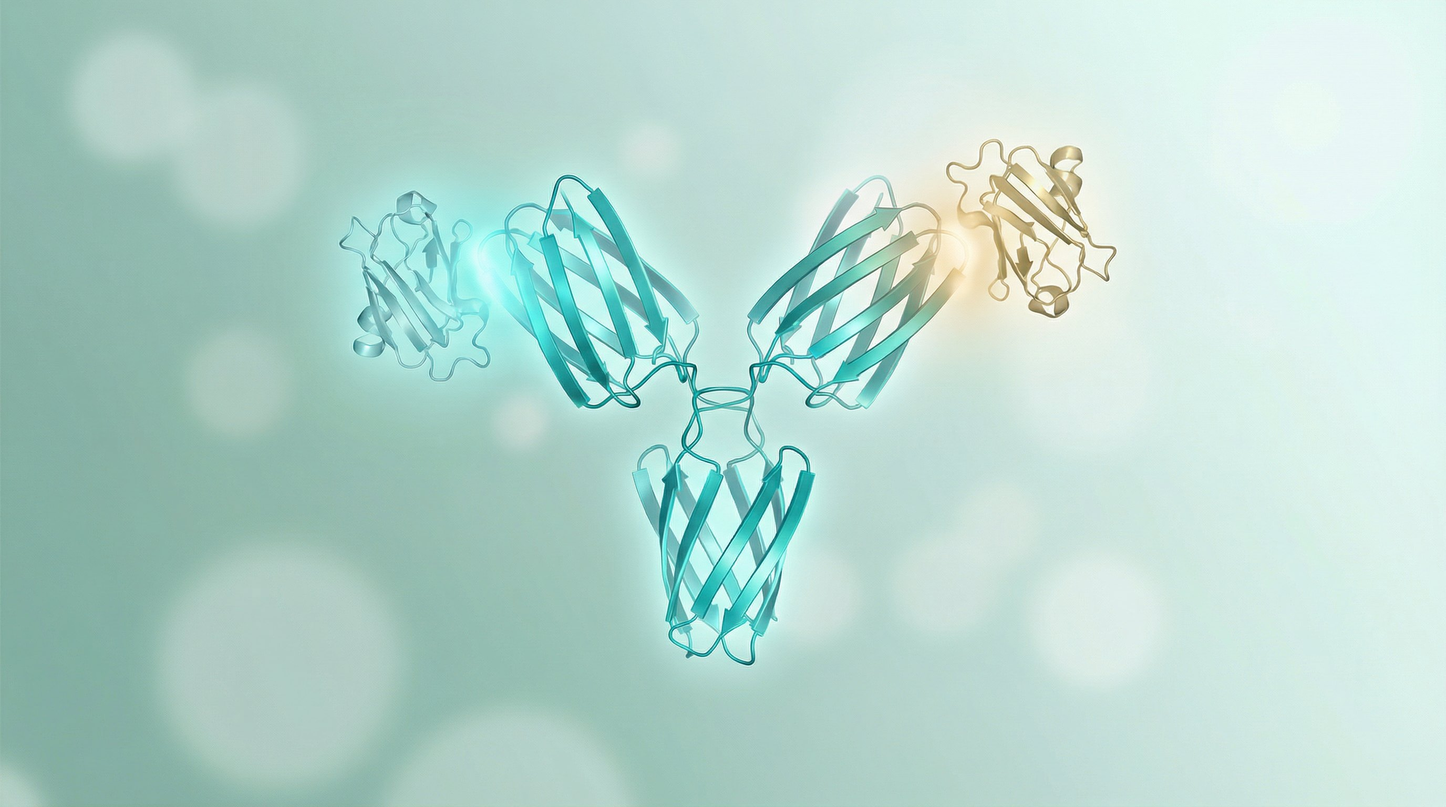
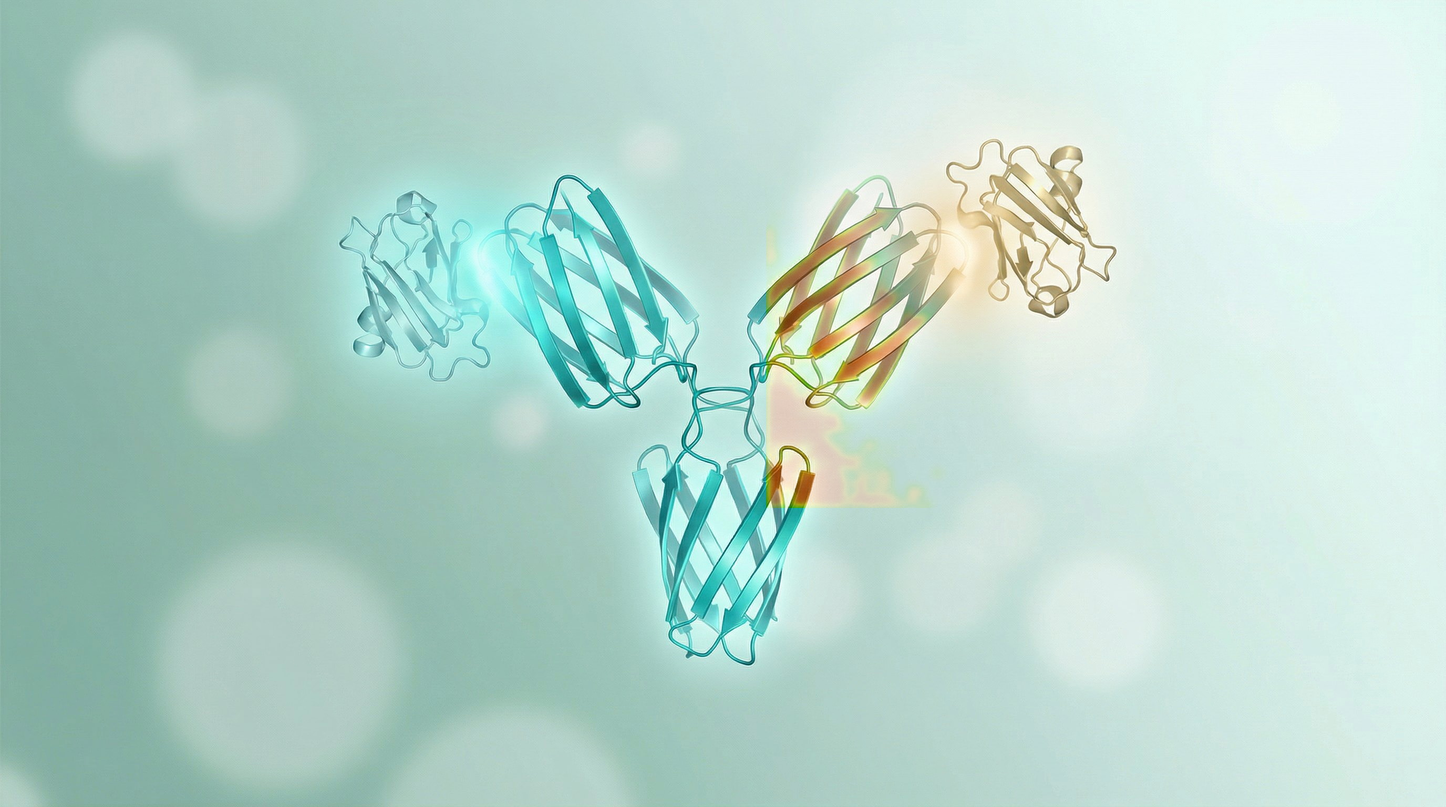
sync: update website content

Changed region(s): [[0.5312, 0.2188, 0.6562, 0.6562]]

diff --git a/index.html b/index.html
@@ -4,7 +4,7 @@
   <meta charset="UTF-8">
   <meta name="viewport" content="width=device-width, initial-scale=1.0">
   <title>InSynBio | AI-Powered Design for Therapeutics</title>
-    <meta name="deployment-id" content="20260301-20">
+    <meta name="deployment-id" content="20260301-21">
   <link rel="icon" type="image/svg+xml" href="favicon.svg">
   <link rel="preconnect" href="https://fonts.googleapis.com">
   <link rel="preconnect" href="https://fonts.gstatic.com" crossorigin>
@@ -155,6 +155,19 @@
     .case-card:hover { transform: translateY(-6px); box-shadow: 0 18px 40px rgba(0,0,0,0.08); border-color: rgba(13,148,136,0.18); }
     .case-media { width: 100%; aspect-ratio: 16 / 9; background: linear-gradient(135deg, rgba(13,148,136,0.08), rgba(45,212,191,0.06)); position: relative; }
     .case-media picture, .case-media img { width: 100%; height: 100%; display: block; object-fit: cover; }
+    /* Bispecific: keep original art style, only enhance dual-color separation */
+    .case-card--bispecific .case-media::after {
+      content: "";
+      position: absolute;
+      inset: 0;
+      pointer-events: none;
+      background:
+        radial-gradient(320px 220px at 36% 42%, rgba(45,212,191,0.22) 0%, rgba(45,212,191,0.00) 64%),
+        radial-gradient(320px 220px at 72% 42%, rgba(245,158,11,0.20) 0%, rgba(245,158,11,0.00) 64%),
+        linear-gradient(90deg, rgba(13,148,136,0.08) 0%, rgba(245,158,11,0.08) 100%);
+      mix-blend-mode: color;
+      opacity: 0.9;
+    }
     .case-body { padding: 22px 22px 18px; }
     .case-tag { display: inline-flex; align-items: center; gap: 8px; font-size: 11px; font-weight: 800; letter-spacing: 0.06em; text-transform: uppercase; color: var(--primary-dark); background: rgba(13,148,136,0.10); border: 1px solid rgba(13,148,136,0.18); padding: 6px 10px; border-radius: 999px; }
     .case-title { margin: 14px 0 10px; font-size: 18px; font-weight: 650; letter-spacing: -0.01em; color: #111827; }
@@ -512,10 +525,12 @@
           <div class="case-cta">Discuss your target →</div>
         </a>
 
-        <a class="case-card fade-up fade-up-d1" href="InSynBio_Bispecific_Antibody_Design_Page.html">
+        <a class="case-card case-card--bispecific fade-up fade-up-d1" href="InSynBio_Bispecific_Antibody_Design_Page.html">
           <div class="case-media">
             <picture>
-              <img src="images/case-bispecific.svg?v=20260301-20" alt="Bispecific antibody design placeholder">
+              <source srcset="images/case-bispecific.webp?v=20260301-21" type="image/webp">
+              <source srcset="images/case-bispecific.jpg?v=20260301-21" type="image/jpeg">
+              <img src="images/case-bispecific.svg?v=20260301-21" alt="Bispecific antibody design">
             </picture>
           </div>
           <div class="case-body">
@@ -655,6 +670,7 @@
   </script>
 </body>
 </html>
+
 
 
 
